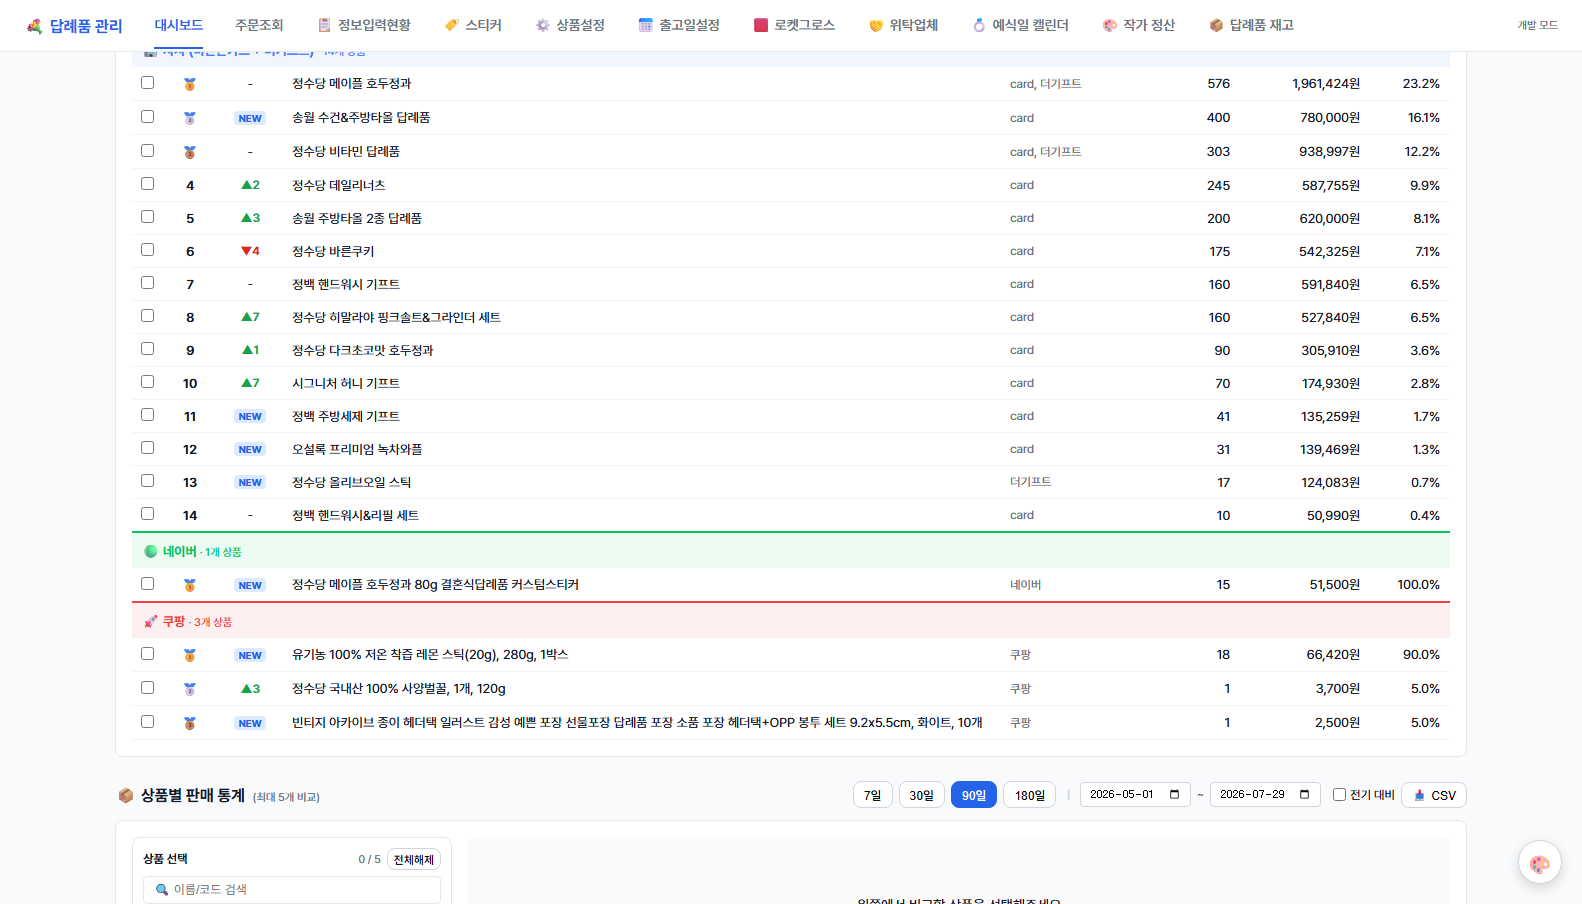
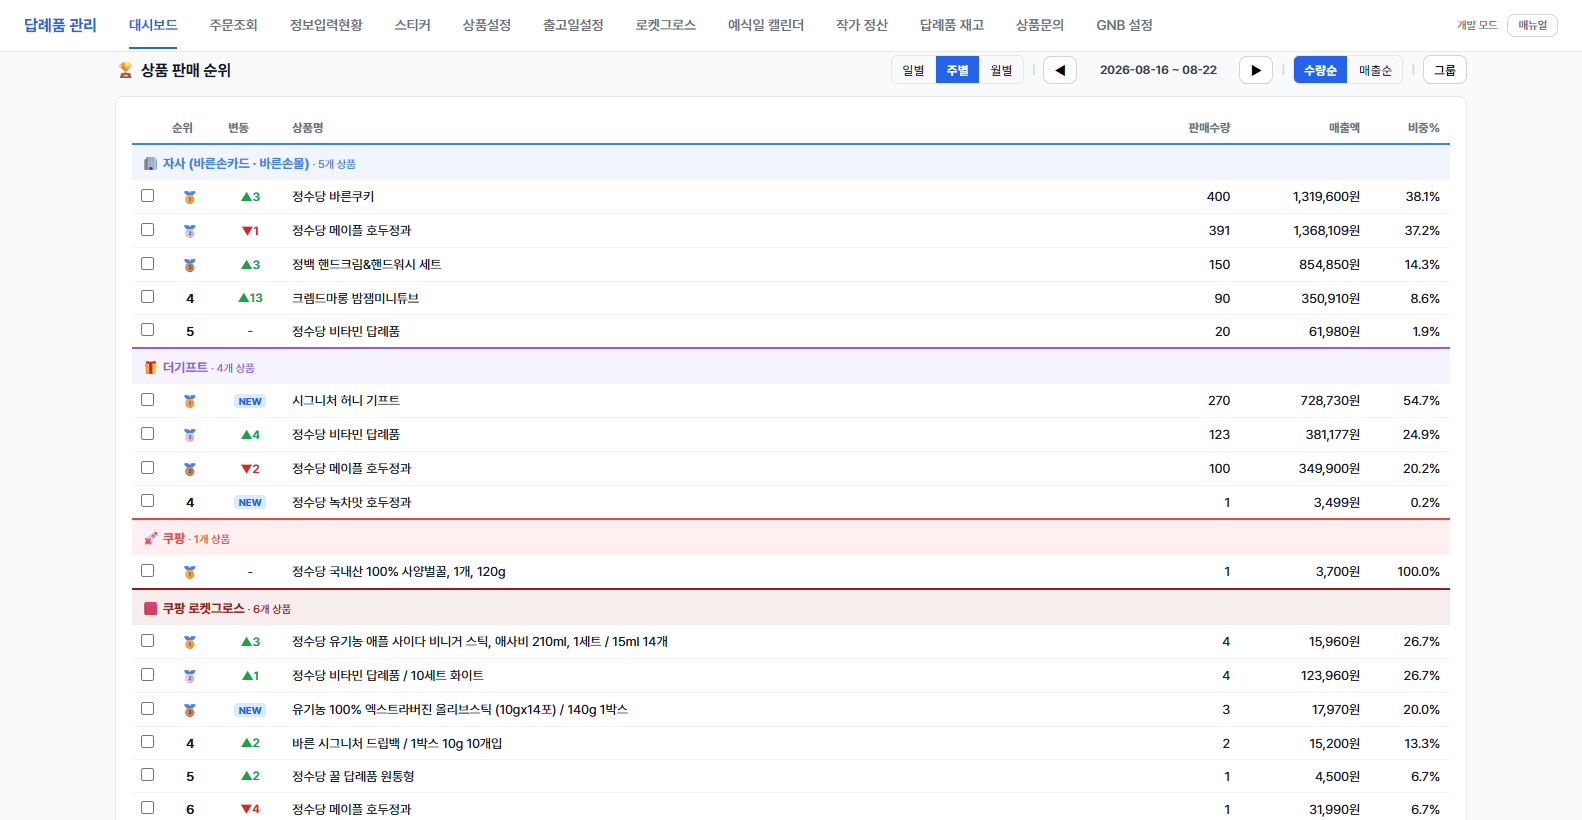
chore: 상품 판매 순위 — 채널 컬럼 제거
표가 이미 채널별 섹션(자사·더기프트·쿠팡·로켓그로스·네이버·정수당)으로 갈려 있어
행마다 채널을 다시 적는 건 중복이었다. 컬럼을 빼고 섹션 헤더 colspan 도 맞췄다.
상품명 폭이 넓어져 긴 이름이 덜 잘린다.

diff --git a/pricing-prototype/daeryepum/index.html b/pricing-prototype/daeryepum/index.html
@@ -748,7 +748,6 @@ nav.nav-loading a[href^="#"] {
               <th style="padding:8px 10px;width:56px">순위</th>
               <th style="padding:8px 10px;width:64px">변동</th>
               <th style="padding:8px 10px">상품명</th>
-              <th style="padding:8px 10px;width:140px">채널</th>
               <th style="padding:8px 10px;width:100px;text-align:right">판매수량</th>
               <th style="padding:8px 10px;width:130px;text-align:right">매출액</th>
               <th style="padding:8px 10px;width:80px;text-align:right">비중%</th>
@@ -6749,16 +6748,15 @@ async function loadProductRanking() {
       prevAll.filter(p => (p.scope || 'own') === g.key).sort(sortFn)
         .forEach((p, i) => prevRankByName.set(String(p.name || '').trim().toLowerCase(), i + 1));
       const totalBase = prods.reduce((s, p) => s + (Number(p[sortBy]) || 0), 0);
-      html += `<tr><td colspan="8" style="padding:9px 10px;background:${g.color}14;border-top:2px solid ${g.color};font-weight:700;color:${g.color};font-size:13px">${g.title} <span style="font-weight:400;color:var(--gray-400);font-size:11px">· ${prods.length}개 상품</span></td></tr>`;
+      html += `<tr><td colspan="7" style="padding:9px 10px;background:${g.color}14;border-top:2px solid ${g.color};font-weight:700;color:${g.color};font-size:13px">${g.title} <span style="font-weight:400;color:var(--gray-400);font-size:11px">· ${prods.length}개 상품</span></td></tr>`;
       if (!prods.length) {
-        html += `<tr><td colspan="8" style="padding:14px;text-align:center;color:var(--gray-400);font-size:12px">해당 기간 판매 없음</td></tr>`;
+        html += `<tr><td colspan="7" style="padding:14px;text-align:center;color:var(--gray-400);font-size:12px">해당 기간 판매 없음</td></tr>`;
         continue;
       }
       html += prods.map((p, i) => {
         const rank = i + 1;
         const medal = rank <= 3 ? ['🥇', '🥈', '🥉'][rank - 1] : String(rank);
         const share = totalBase > 0 ? (Number(p[sortBy]) || 0) / totalBase * 100 : 0;
-        const channels = (p.channels || []).join(', ');
         const nm = String(p.name || '').trim().toLowerCase();
         const prevRank = prevRankByName.has(nm) ? prevRankByName.get(nm) : null;
         const gi = allProducts.indexOf(p);
@@ -6767,7 +6765,6 @@ async function loadProductRanking() {
           <td style="padding:8px 10px;text-align:center;font-weight:600">${medal}</td>
           <td style="padding:8px 10px;text-align:center;font-size:12px">${_prChangeBadge(rank, prevRank)}</td>
           <td style="padding:8px 10px">${esc(p.name || '-')}</td>
-          <td style="padding:8px 10px;color:var(--gray-500);font-size:12px">${esc(channels)}</td>
           <td style="padding:8px 10px;text-align:right">${(Number(p.qty) || 0).toLocaleString('ko-KR')}</td>
           <td style="padding:8px 10px;text-align:right">${fmtKRW(p.revenue)}</td>
           <td style="padding:8px 10px;text-align:right;color:var(--gray-600)">${share.toFixed(1)}%</td>
